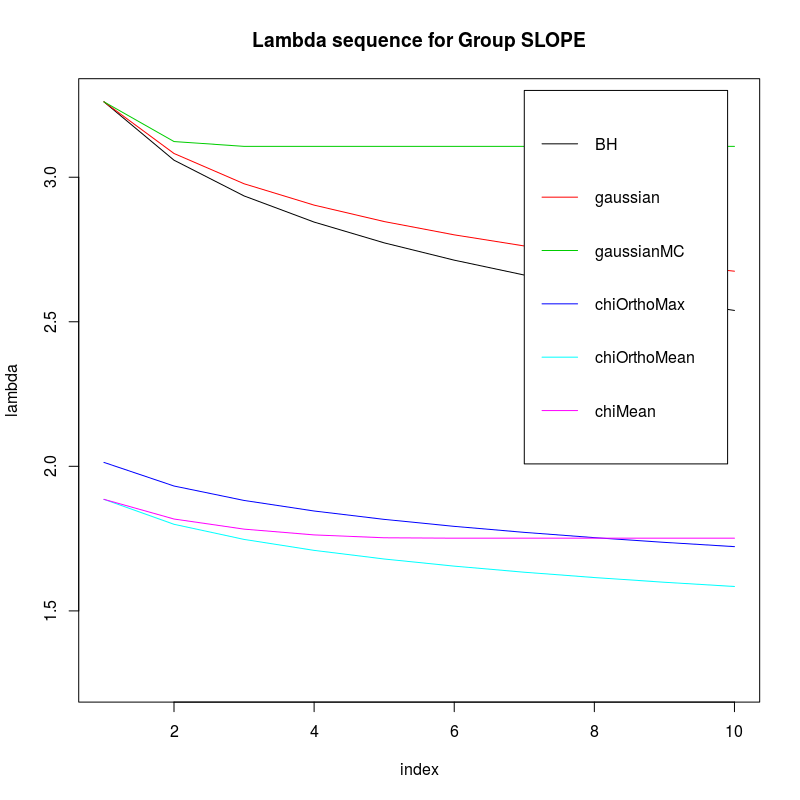
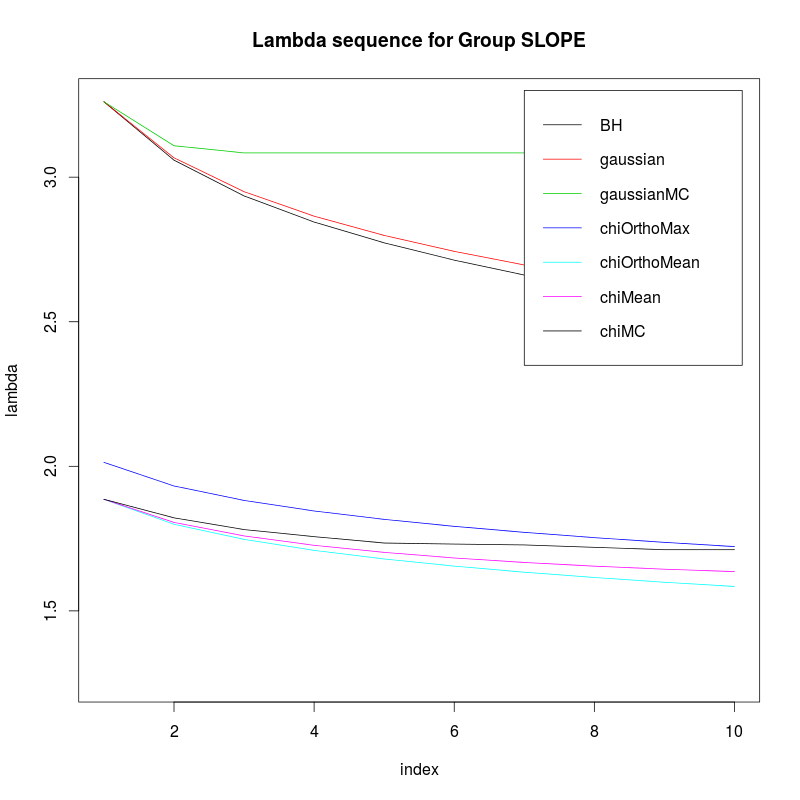
Lambda post updated with method "chiMC"

diff --git a/_posts/2016-1-22-Lambda.md b/_posts/2016-1-22-Lambda.md
@@ -17,6 +17,7 @@ Currently the package `grpSLOPE` offers the function `lambdaGroupSLOPE` to gener
 For illustration purposes we compute these regularizing sequences for simulated data consisting of 2000 observations with 90 groups of predictors (30 groups of size 5, 30 groups of size 10, and 30 groups of size 20).
 
 The methods "gaussianMC" and "chiMC" require the model matrix $A$. For "gaussianMC" we simulated $A$ from the multivariate normal distribution, such that the mean pairwise correlation of predictors from the same group is 0.9498834 (variance: 1.631723e-05), and the average pairwise correlation of variables from different groups is 0.05981604 (variance: 0.007266408). For "chiMC" we generate a 2000 &times; 1050 random matrix with entries samples from the normal distribution with mean 0 and variance 1/2000. The columns of this matrix are standardized to have Euclidean norms equal to one before it is used in `lambdaGroupSLOPE`.
+Since "chiMC" also requires the response vector $y$, we select 10 signficant groups in the coefficient vector $b$ at random and generate $y = Ab + \varepsilon$, where $\varepsilon$ are i.i.d. standard normal variables.
 
 The following code demonstrates how the regularizing sequence can be computed with each of the above methods (except for "chiEqual" because it requires equal group sizes). The first ten coefficients of each of the resulting sequences are graphed right below.
 
@@ -43,6 +44,8 @@ lambda.mean <- lambdaGroupSLOPE(fdr=fdr, group=group, wt=wt,
                                 method="chiOrthoMean") 
 lambda.chi <- lambdaGroupSLOPE(fdr=fdr, n.obs=n.obs, group=group, 
                                wt=wt, method="chiMean")
+lambda.chiMC <- lambdaGroupSLOPE(fdr=fdr, group=group, A=B, y=y, wt=wt,
+                                 n.MC=10, MC.reps=5000, method="chiMC")
 ```
 
 ![Graph of lambda sequences](/grpSLOPE/img/lambda_seq.png)
